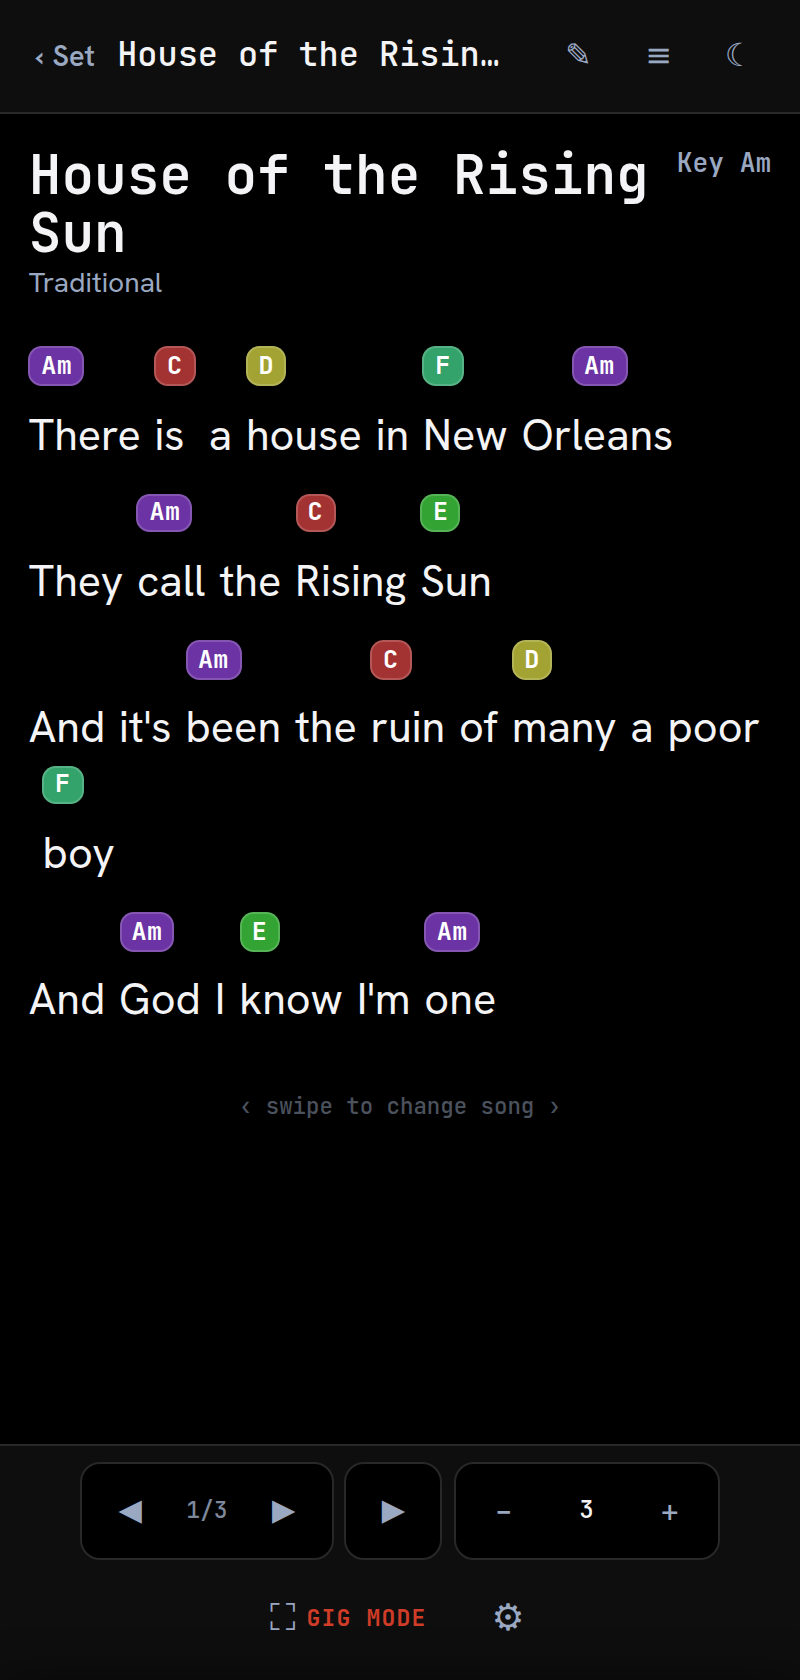
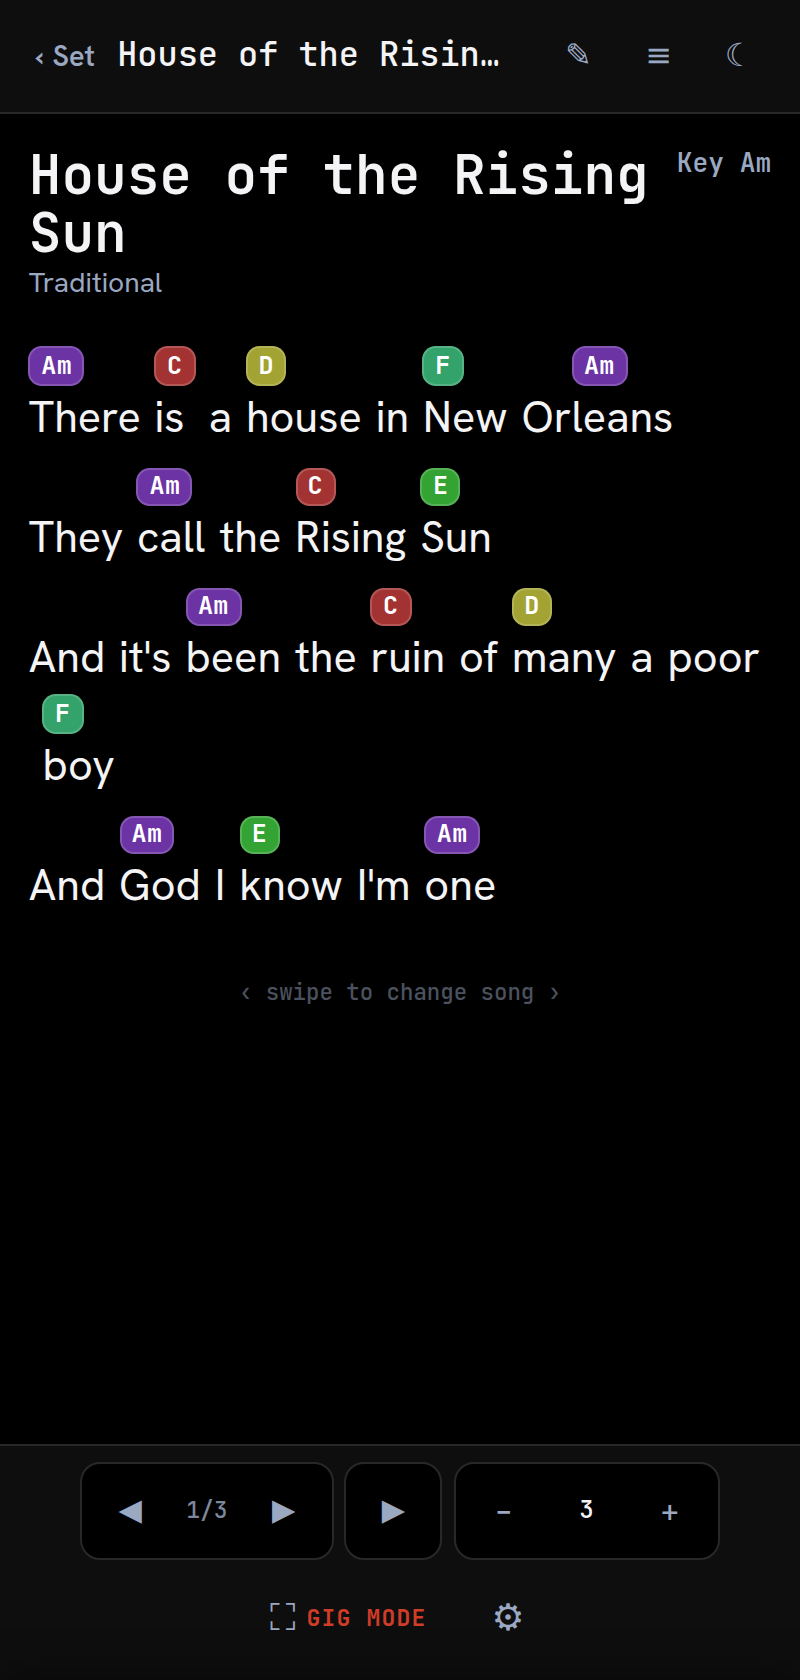
v2026.08.05.001 — tighter sheet spacing, ~28% less scrolling
Owner feedback from using it: songs took too much scrolling. The slack was
almost entirely dead air, not content:

- .seg .c had min-height:1.5em while the chord pill inside it is only ~.9em
  tall, so every chorded row carried ~.6em of empty space. Now 1em, with the
  pill-to-lyric gap trimmed .1em -> .08em.
- Per-line margin .5em -> .3em; blank section gaps .8em -> .55em.

Font size and lyric line-height are untouched — the text is exactly as
readable, there is just less nothing between the lines. Danny Boy at a
360x740 viewport: 665px of scrolling -> 482px. Verified against Nashville
mode (superscripts still clear the pill) and the light theme.

Joining lines with commas was considered and rejected: it would cut height
further but destroys the phrase-per-line structure players track mid-song.

README screenshots and the hero GIF regenerated to match (played/editor
views don't show the sheet and came out byte-identical). Version bumped in
the three synced places; changelog updated here and in CLAUDE.md.

Claude-Session: https://claude.ai/code/session_01RFni8j63y7ynwzmNLMPMTB

diff --git a/setlist69.html b/setlist69.html
@@ -148,6 +148,9 @@
                    from #ff6f5c so white clears AA in both themes. --brand title stays bright #ff6f5c;
                    --red danger deepened (#ef4034 / #b01810) to stay distinct. keyColor pills + greens
                    unchanged.
+  v2026.08.05.001  Tighter sheet: chord rows lose their dead air (.c min-height 1.5em->1em, the pill
+                   is only ~.9em tall), line gap .5em->.3em, blank lines .8em->.55em. Same font size,
+                   ~28% less scrolling on a long song; lyric line-height untouched.
 -->
 <html lang="en">
 <head>
@@ -280,11 +283,11 @@
   .svbanter{color:var(--accent);font-size:.84rem;font-style:italic;margin-top:.15rem;line-height:1.35;}
   .sheet{margin-top:1.1rem;font-size:var(--sheet-size,1.35rem);-webkit-user-select:text;user-select:text;
     line-height:1;}
-  .ln{margin:0 0 .5em;white-space:normal;}            /* a song line; wraps to screen width */
+  .ln{margin:0 0 .3em;white-space:normal;}            /* a song line; wraps to screen width */
   .ln.empty-line{margin:0;}
   .wg{display:inline-block;white-space:nowrap;vertical-align:bottom;}  /* word-group: never splits mid-word */
   .seg{display:inline-block;vertical-align:bottom;}
-  .seg .c{display:block;line-height:1;min-height:1.5em;white-space:nowrap;margin-bottom:.1em;}
+  .seg .c{display:block;line-height:1;min-height:1em;white-space:nowrap;margin-bottom:.08em;}  /* pill is ~.9em tall — keep min-height snug or every chorded row carries dead air */
   .chordpill{display:inline-block;color:#fff;font-family:var(--mono);font-weight:700;font-size:.58em;
     padding:.2em .5em;border-radius:.55em;line-height:1.15;letter-spacing:.2px;
     box-shadow:inset 0 0 0 1px #ffffff2e, 0 1px 2px #0003;}
@@ -303,7 +306,7 @@
   .songkey{font-family:var(--mono);font-size:.82rem;font-weight:600;color:var(--muted);white-space:nowrap;
     align-self:center;}
   .wgspace{display:inline-block;width:.32em;}         /* breakable gap between word-groups */
-  .blank{height:.8em;}
+  .blank{height:.55em;}
   .chorus{border-left:3px solid var(--accent);padding-left:.7rem;margin-left:-.1rem;}
   .comment{color:var(--muted);font-style:italic;font-size:.7em;margin:.3rem 0 .5rem;font-family:var(--ui);}
   .swipehint{text-align:center;color:var(--faint);font-size:.7rem;font-family:var(--mono);margin-top:2rem;opacity:.6;transition:opacity .5s;}
@@ -452,7 +455,7 @@
 <div class="app">
   <header>
     <button class="back" id="backBtn" style="display:none" aria-label="Back">‹ <span id="backLabel">Back</span></button>
-    <div class="brand" id="brand"><span class="dot"></span>SetList69<small>v2026.07.19.016</small></div>
+    <div class="brand" id="brand"><span class="dot"></span>SetList69<small>v2026.08.05.001</small></div>
     <div class="htitle" id="headerTitle" style="display:none"></div>
     <div class="spacer"></div>
     <button class="iconbtn" id="updateHdr" title="Update ready" aria-label="Update ready — refresh" hidden>⟳</button>

diff --git a/sw.js b/sw.js
@@ -1,4 +1,4 @@
-const CACHE = 'setlist69-v2026.07.19.016';
+const CACHE = 'setlist69-v2026.08.05.001';
 const PRECACHE = [
   './',
   './index.html',

diff --git a/CLAUDE.md b/CLAUDE.md
@@ -179,6 +179,11 @@ v2026.07.19.016  Coral accent through the whole UI: `--accent`/`--chord`/`--acce
                  did). `--brand` title stays bright #ff6f5c (coral text on the dark header, no white-text
                  issue). `--red` danger deepened (#ef4034 dark / #b01810 light) to stay distinct.
                  `keyColor()` chord/key pills and the greens (`--ok`/`--green`) unchanged.
+v2026.08.05.001  Tighter sheet spacing (owner: "too much scrolling"): `.seg .c` min-height
+                 1.5em->1em + margin .1->.08em (pill is ~.9em tall, the rest was dead air), `.ln`
+                 margin .5->.3em, `.blank` .8->.55em. Font size + lyric line-height untouched;
+                 ~28% less scrolling on a long song. Comma-joining lines was considered and
+                 rejected — it destroys the phrase-per-line structure players track mid-song.
 ```
 
 A GitHub Actions workflow (`.github/workflows/check.yml`) enforces the version discipline on every push: it syntax-checks the extracted inline script and `sw.js`, **fails if the `<small>` brand version ≠ `sw.js` CACHE version**, and fails on duplicate element ids in the markup.

diff --git a/README.md b/README.md
@@ -27,7 +27,7 @@
 <br>
 
 [![CI](https://github.com/cdburgess75/SetList69/actions/workflows/check.yml/badge.svg)](https://github.com/cdburgess75/SetList69/actions/workflows/check.yml)
-[![Version](https://img.shields.io/badge/version-2026.07.19.016-informational?style=flat-square)](#versioning)
+[![Version](https://img.shields.io/badge/version-2026.08.05.001-informational?style=flat-square)](#versioning)
 [![PWA](https://img.shields.io/badge/PWA-installable-5A0FC8?style=flat-square)](#save-it-to-your-phone)
 [![Offline](https://img.shields.io/badge/offline-first-2ea043?style=flat-square)](#features)
 [![Runtime deps](https://img.shields.io/badge/runtime_dependencies-0-f5a623?style=flat-square)](#tech-stack)
